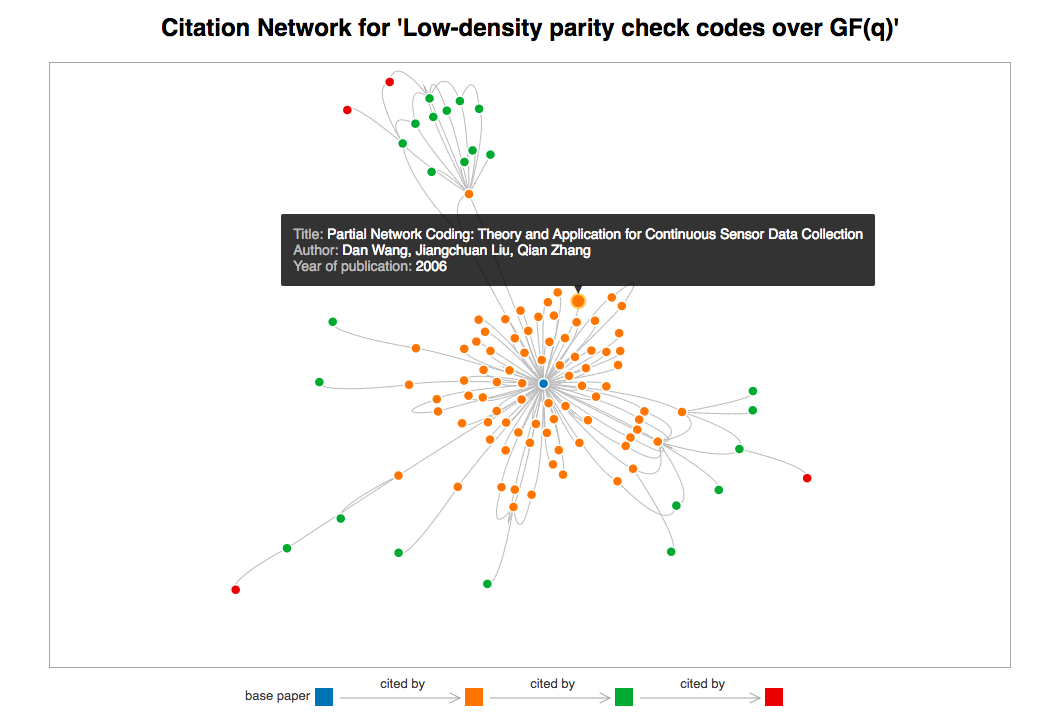
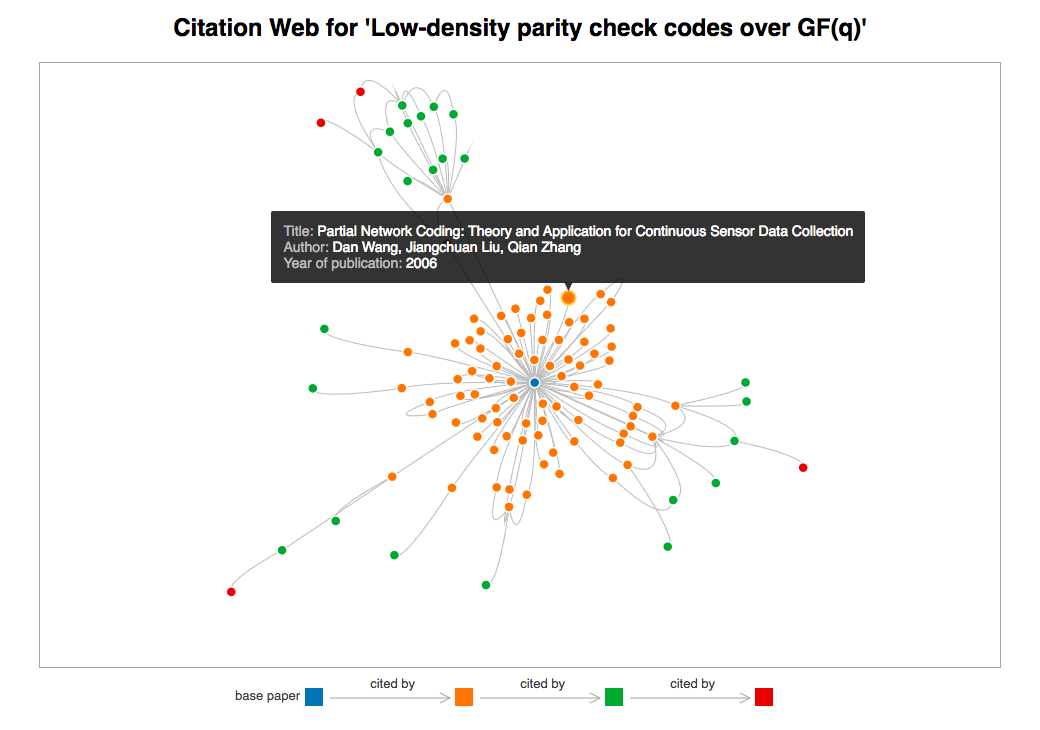
Changes to screenshots

diff --git a/2-vertical-barchart.html b/2-vertical-barchart.html
@@ -2,37 +2,46 @@
 <html>
   <head>
     <meta charset="utf-8">
-    <title>Top 5 Papers</title>
+    <title>Top 5 Papers for Venue arXiv</title>
     <style>
 	    body {
 	    	font-family: helvetica;
 	    }
 
 	    #barchart {
-	    	width: 960px;
+	    	width: 1100px;
             margin: auto;
 	    }
 
+        .charttitle {
+            font-size: 26px;
+            font-weight: bold;
+        }
+
 	    .axis {
-	    	font-size: 13px;
+	    	font-size: 12px;
 	    }
 
 	    .axis path, .axis line {
 	    	fill: none;
-	    	stroke: #6d6d6d;
+	    	stroke: #333333;
 	    	stroke-width: 1px;
 	    	shape-rendering: crispEdges;
 	    }
 
 	    .grid .tick {
-	    	stroke: lightgray;
-	    	stroke-opacity: 0.7;
+	    	stroke: #9c9c9c;
+	    	stroke-opacity: 0.4;
 	    	shape-rendering: crispEdges;
 	    }
 
 	    .bar {
 	    	fill: #8CD3DD;
 	    }
+
+        .bar:hover {
+            fill: #fa8080;
+        }
 
 	    .label {
 	    	fill: black;
@@ -45,9 +54,9 @@
     <script src="js/d3.v3.min.js"></script>
     <script>
     d3.json("data/2-arxiv-top-papers.json", function(data) {
-	    var margin = {top: 80, right: 25, bottom: 80, left: 60},
-	    	width = 960 - margin.left - margin.right,
-	    	height = 500 - margin.top - margin.bottom;
+	    var margin = {top: 80, right: 20, bottom: 100, left: 50},
+	    	width = 1100 - margin.left - margin.right,
+	    	height = 550 - margin.top - margin.bottom;
 
 	    var chart = d3.select("#barchart")
 	    	.append("svg")
@@ -78,9 +87,7 @@
             .attr("text-anchor", "middle")
             .attr("transform", "translate(" + width/2 + ", " + (0 - (margin.top/2) + 10) + ")")
             .attr("class", "charttitle")
-            .style("font-size", "26px")
-            .style("font-weight", "bold")
-            .text("Top 5 papers for venue arXiv");
+            .text("Top 5 Papers for Venue arXiv");
 
     	// Add x axis
     	chart.append("g")
@@ -90,10 +97,24 @@
             .selectAll("text")
             .call(wrap, x.rangeBand());
 
+        // Add x axis label
+        chart.append("text")
+            .attr("text-anchor", "middle")
+            .attr("transform", "translate(" + width/2 + ", " + (height + 80) + ")")
+            .attr("class", "label")
+            .text("Paper Title");
+
     	// Add y axis
     	chart.append("g")
     		.attr("class", "y axis")
     		.call(yAxis);
+
+        // Add y axis label
+        chart.append("text")
+            .attr("text-anchor", "middle")
+            .attr("transform", "translate("+ (0 - (margin.left/2 + 10)) + "," + (height/2) +")rotate(-90)")
+            .attr("class", "label")
+            .text("Number of In-Citation");
 
         // Add y axis grid lines
         chart.append("g")
@@ -101,6 +122,7 @@
             .attr("transform", "translate(" + width + ", 0)")
             .call(yAxis.tickSize(width, 0, 0).tickFormat(""));
 
+        // Add bars
     	var bar = chart.selectAll(".bar")
     		.data(data)
     		.enter()
@@ -114,12 +136,12 @@
 	    	.attr("height", function(d) { return  height - y(d.citationCount) - 1; });
 
 	    // Add bar values
-	    bar.append("text")
+	    /*bar.append("text")
 	    	.attr("class", "label")
 	    	.attr("y", function(d) { return y(d.citationCount) + 10; })
 	    	.attr("x", function(d) { return x(d.title) + x.rangeBand() / 2 - 10; })
 	    	.attr("dy", ".35em")
-	    	.text(function(d) { return d.citationCount; });
+	    	.text(function(d) { return d.citationCount; });*/
     });
 
     function wrap(text, width) {

diff --git a/4-forcegraph.html b/4-forcegraph.html
@@ -2,7 +2,7 @@
 <html>
   <head>
     <meta charset="utf-8">
-    <title>Citation Network</title>
+    <title>Citation Web</title>
     <style>
     	body {
 	    	font-family: helvetica;
@@ -79,7 +79,7 @@
   	<body>
   	<div id="chartarea">
 	  	<div id="charttitle">
-	  		<h2>Citation Network for 'Low-density parity check codes over GF(q)'</h2>
+	  		<h2>Citation Web for 'Low-density parity check codes over GF(q)'</h2>
 	  	</div>
 	    <div id="forcegraph"></div>
 	    <div id="legendarea"></div>
